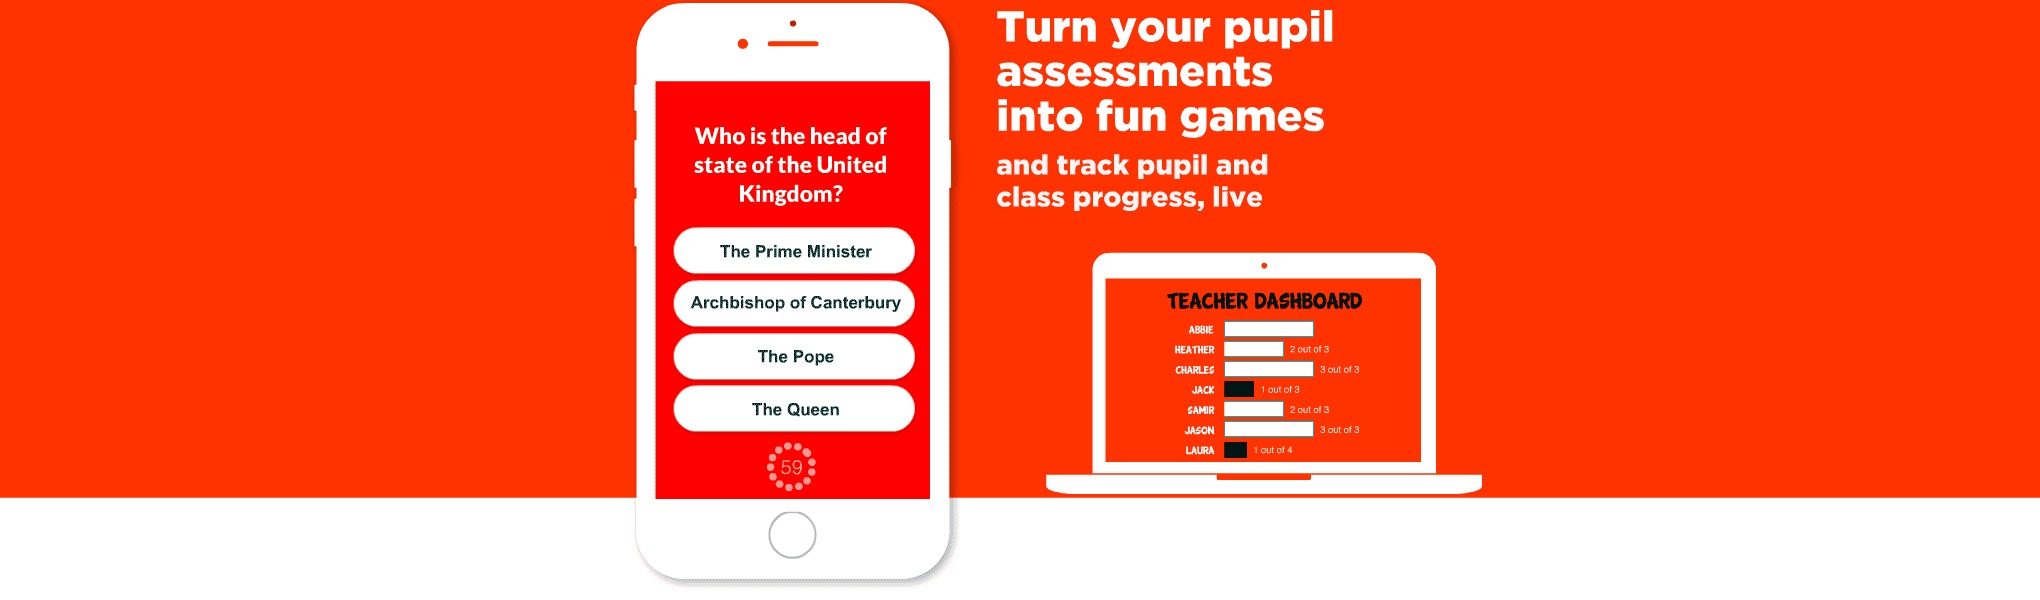
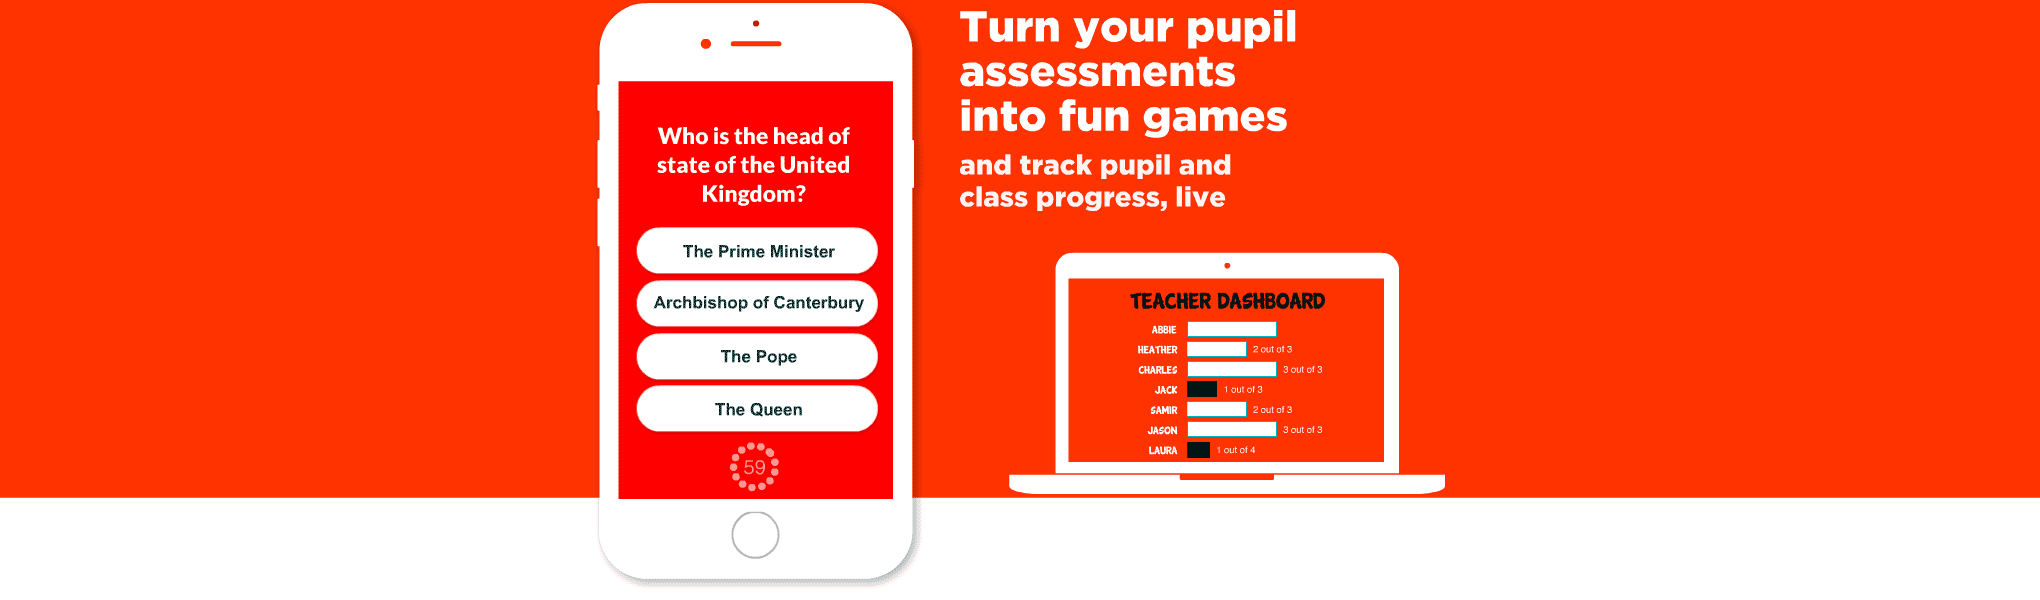
Update swf home object

Changed region(s): [[0.2779, 0.0, 0.7412, 0.99], [0.3706, 0.84, 0.4015, 0.93], [0.3088, 0.96, 0.3397, 0.99]]

diff --git a/public/cquiz/landing11.html b/public/cquiz/landing11.html
@@ -725,7 +725,7 @@
     var flashvars = {},
         params = {wmode:"transparent"},
         attributes = {};
-      swfobject.embedSWF("img/qz-homepage-demo.swf", "flash", "1040", "600", "10.0.0", undefined, flashvars, params, attributes);
+      swfobject.embedSWF("img/qz-homepage-demo.swf", "flash", "850", "600", "10.0.0", undefined, flashvars, params, attributes);
     //   swfobject.embedSWF("/img/qz-homepage-demo.swf", el, 300, 120, 10);
     </script>
 

diff --git a/public/cquiz/css/style.css b/public/cquiz/css/style.css
@@ -2114,13 +2114,13 @@ a.btn:focus{
 	background-color: #FFF;
 	background: url(/img/qz-homepage-placeholder-8bit.png) center top repeat-x;
 	height: 600px;
-	/*width: 1040px;*/
+	/*width: 850px;*/
 
 }
 .flash-container {
 	margin: auto;
 	height: 600px;
-	width: 1040px;
+	width: 850px;
 }
 
 .cta-container {
@@ -2171,7 +2171,7 @@ a.btn:focus{
 }
 
 
-@media (max-width: 1040px) {
+@media (max-width: 850px) {
 	.flash-container {
 		display: none;
 	}
